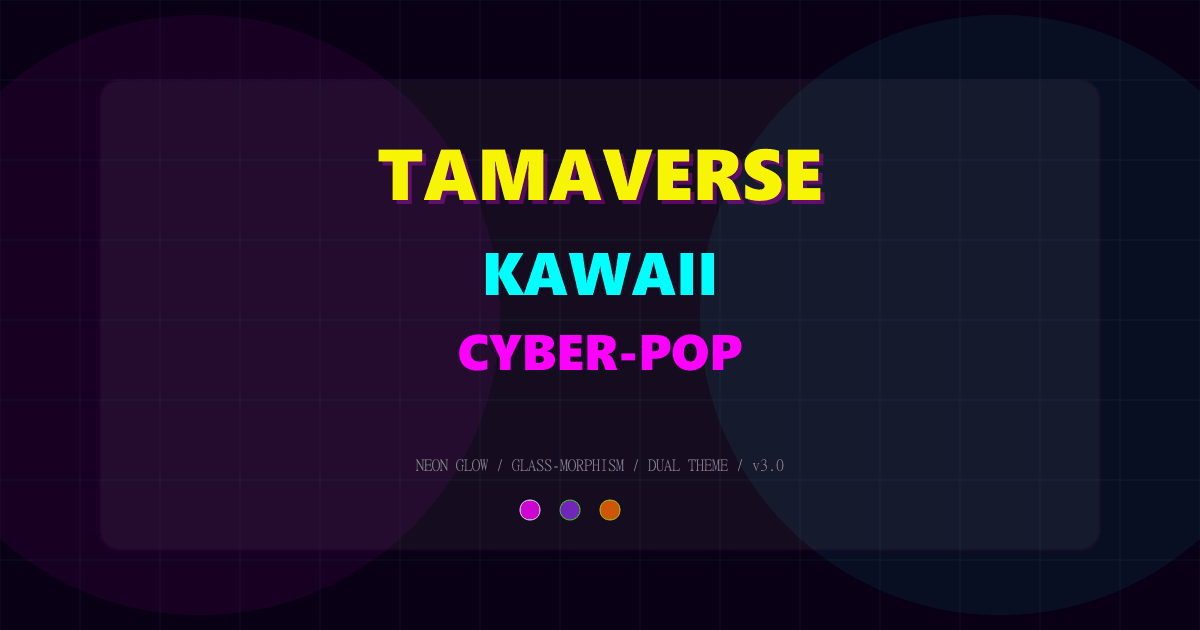
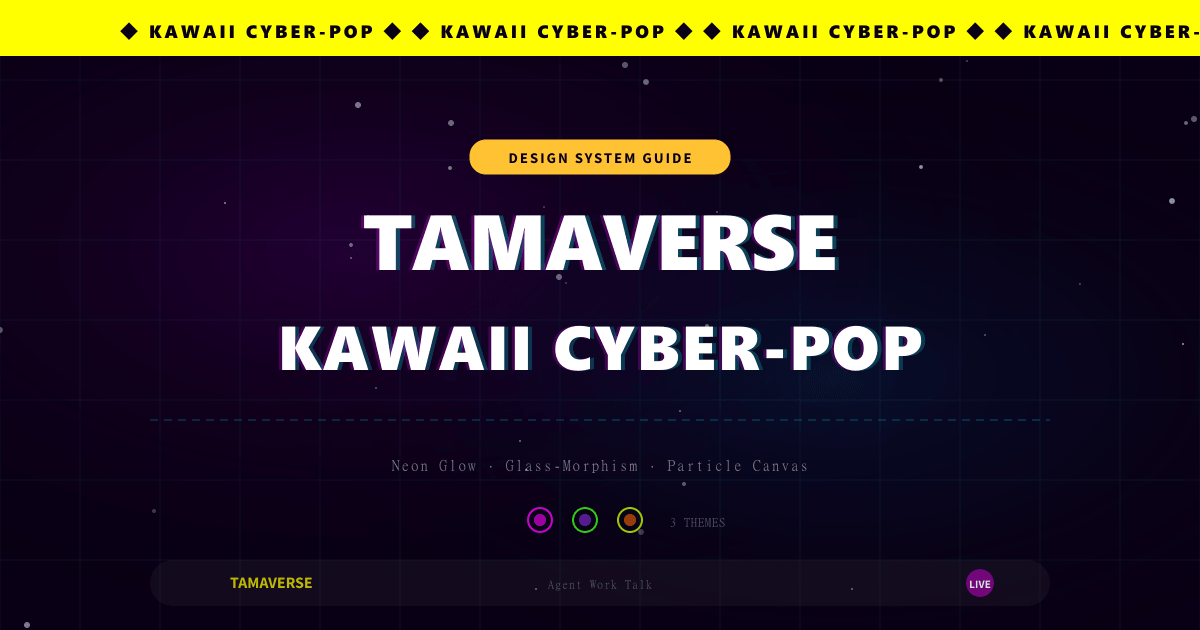
Update KAWAII: remove v3.0 from meta, redesign OG image, update footer
- Meta tags: removed "v3.0" from title, description, twitter tags
- Footer: descriptive feature list instead of version reference
- OG image: redesigned to match actual page style
  - Yellow marquee bar, glitch title effect, dark gradient bg
  - Particle dots, cyan grid, theme switcher dots, nav preview
  - Dashed separator and neon glow effects

diff --git a/tamaverse-kawaii-cyberpop-design-system.html b/tamaverse-kawaii-cyberpop-design-system.html
@@ -4,18 +4,18 @@
 <meta charset="UTF-8">
 <meta name="viewport" content="width=device-width, initial-scale=1.0">
 <link rel="icon" type="image/svg+xml" href="favicon.svg">
-<meta name="description" content="타마버스 KAWAII CYBER-POP 디자인 시스템 v3.0. 네온 글로우, 글래스모피즘, 파티클 캔버스, 듀얼 테마 지원.">
+<meta name="description" content="타마버스 KAWAII CYBER-POP 디자인 시스템. 네온 글로우, 글래스모피즘, 파티클 캔버스, 듀얼 테마 지원.">
 <meta name="keywords" content="Tamaverse, Kawaii, Cyber-Pop, Design System, Neon, Glassmorphism">
 <meta name="author" content="Tamaverse">
 <meta property="og:type" content="website">
 <meta property="og:url" content="https://tamaverse-design.vercel.app/tamaverse-kawaii-cyberpop-design-system.html">
-<meta property="og:title" content="Tamaverse KAWAII CYBER-POP — Design System v3.0">
+<meta property="og:title" content="Tamaverse KAWAII CYBER-POP — Design System">
 <meta property="og:description" content="네온 글로우, 글래스모피즘, 3D 틸트, 마그네틱 버튼. 다크 테마 + 듀얼 테마 지원.">
 <meta property="og:image" content="https://tamaverse-design.vercel.app/assets/og-kawaii.png">
 <meta property="og:image:width" content="1200">
 <meta property="og:image:height" content="630">
 <meta name="twitter:card" content="summary_large_image">
-<meta name="twitter:title" content="Tamaverse KAWAII CYBER-POP — Design System v3.0">
+<meta name="twitter:title" content="Tamaverse KAWAII CYBER-POP — Design System">
 <meta name="twitter:description" content="Neon glow, glassmorphism, and particle canvas with 3 psychedelic theme variants.">
 <meta name="twitter:image" content="https://tamaverse-design.vercel.app/assets/og-kawaii.png">
 <title>Tamaverse KAWAII CYBER-POP | Design System Guide</title>
@@ -1554,9 +1554,9 @@ code { font-family: var(--font-family-code); font-size: 0.85em; background: rgba
             TAMAVERSE <span style="color: var(--color-primary); text-shadow: 0 0 15px var(--color-primary);">KAWAII</span> <span style="color: var(--color-secondary); text-shadow: 0 0 15px var(--color-secondary);">CYBER-POP</span>
         </div>
         <div style="font-size: var(--text-sm); opacity: 0.5; margin-bottom: var(--sp-8);">
-            Design System Guide v3.0 &mdash; CSS Custom Properties + Glass-Morphism + Neon Glow
+            Neon Glow &middot; Glass-Morphism &middot; Particle Canvas &middot; CSS Custom Properties
         </div>
-        <div style="font-size: var(--text-xs); opacity: 0.3;">&copy; 2024&ndash;2026 TAMAVERSE KAWAII CYBER-POP</div>
+        <div style="font-size: var(--text-xs); opacity: 0.3;">&copy; 2024&ndash;2026 TAMAVERSE &middot; Kawaii Cyber-Pop Design System</div>
     </div>
 </footer>
 
